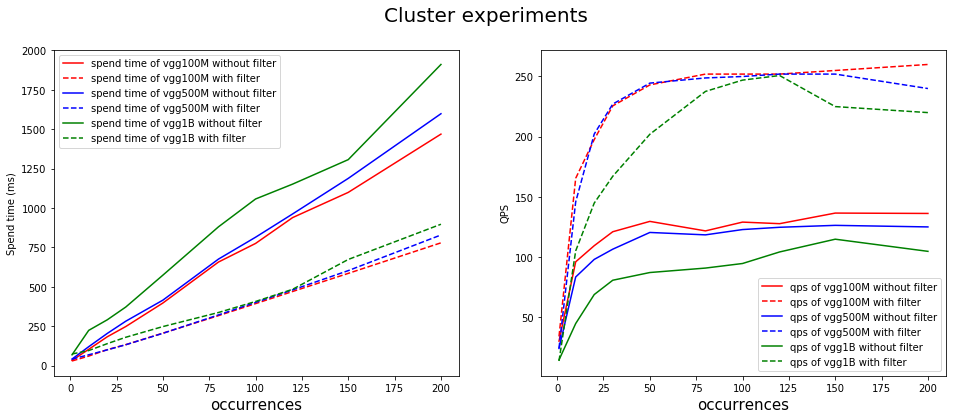
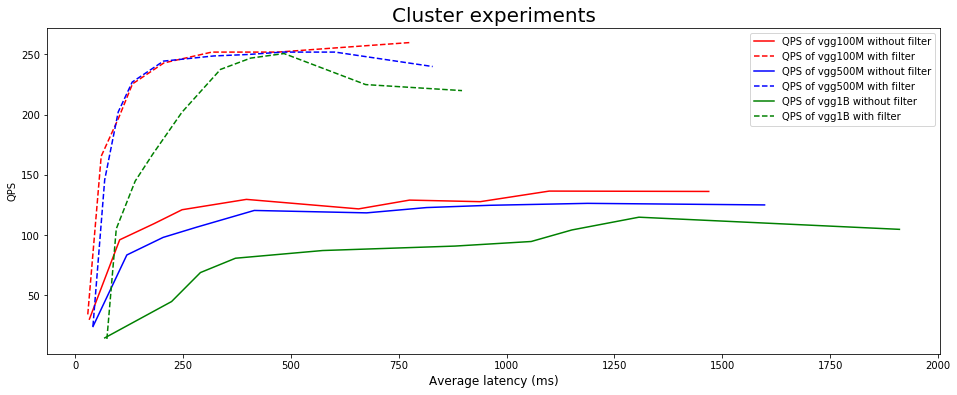
change benchs img

diff --git a/engine/gamma/src/benchs/README.md b/engine/gamma/src/benchs/README.md
@@ -106,7 +106,7 @@ recalls of VGG10M :
 
 ## Cluster experiments
 
-First, we do experiments by searching on cluster only with vgg features. Then, we experiment with the vgg features and filter the search using an integer field to compare the time consumed and QPS with the vgg features only. In the following section, we use searching with filter or without filter to specify the experiment method mentioned earlier. For different size of experiment data, we use different vectorbase cluster. We use 3 masters, 3 routers and 5 partition services for VGG100M. For VGG500M, we use the same size of master and router with VGG100M but 24 partition services. We use 3 masters, 6 routers and 48 partition services to deal with the VGG1B.
+First, we do experiments by searching on cluster only with vgg features. Then, we experiment with the vgg features and filter the search using an integer field to compare the time consumed and QPS with the vgg features only. In the following section, we use searching with filter or without filter to specify the experiment method mentioned earlier. For different size of experiment data, we use different vectorbase clusters. We use 3 masters, 3 routers and 5 partition services for VGG100M. For VGG500M, we use the same size of master and router with VGG100M but 24 partition services. We use 3 masters, 6 routers and 48 partition services to deal with the VGG1B.
 
 ### Result
 
